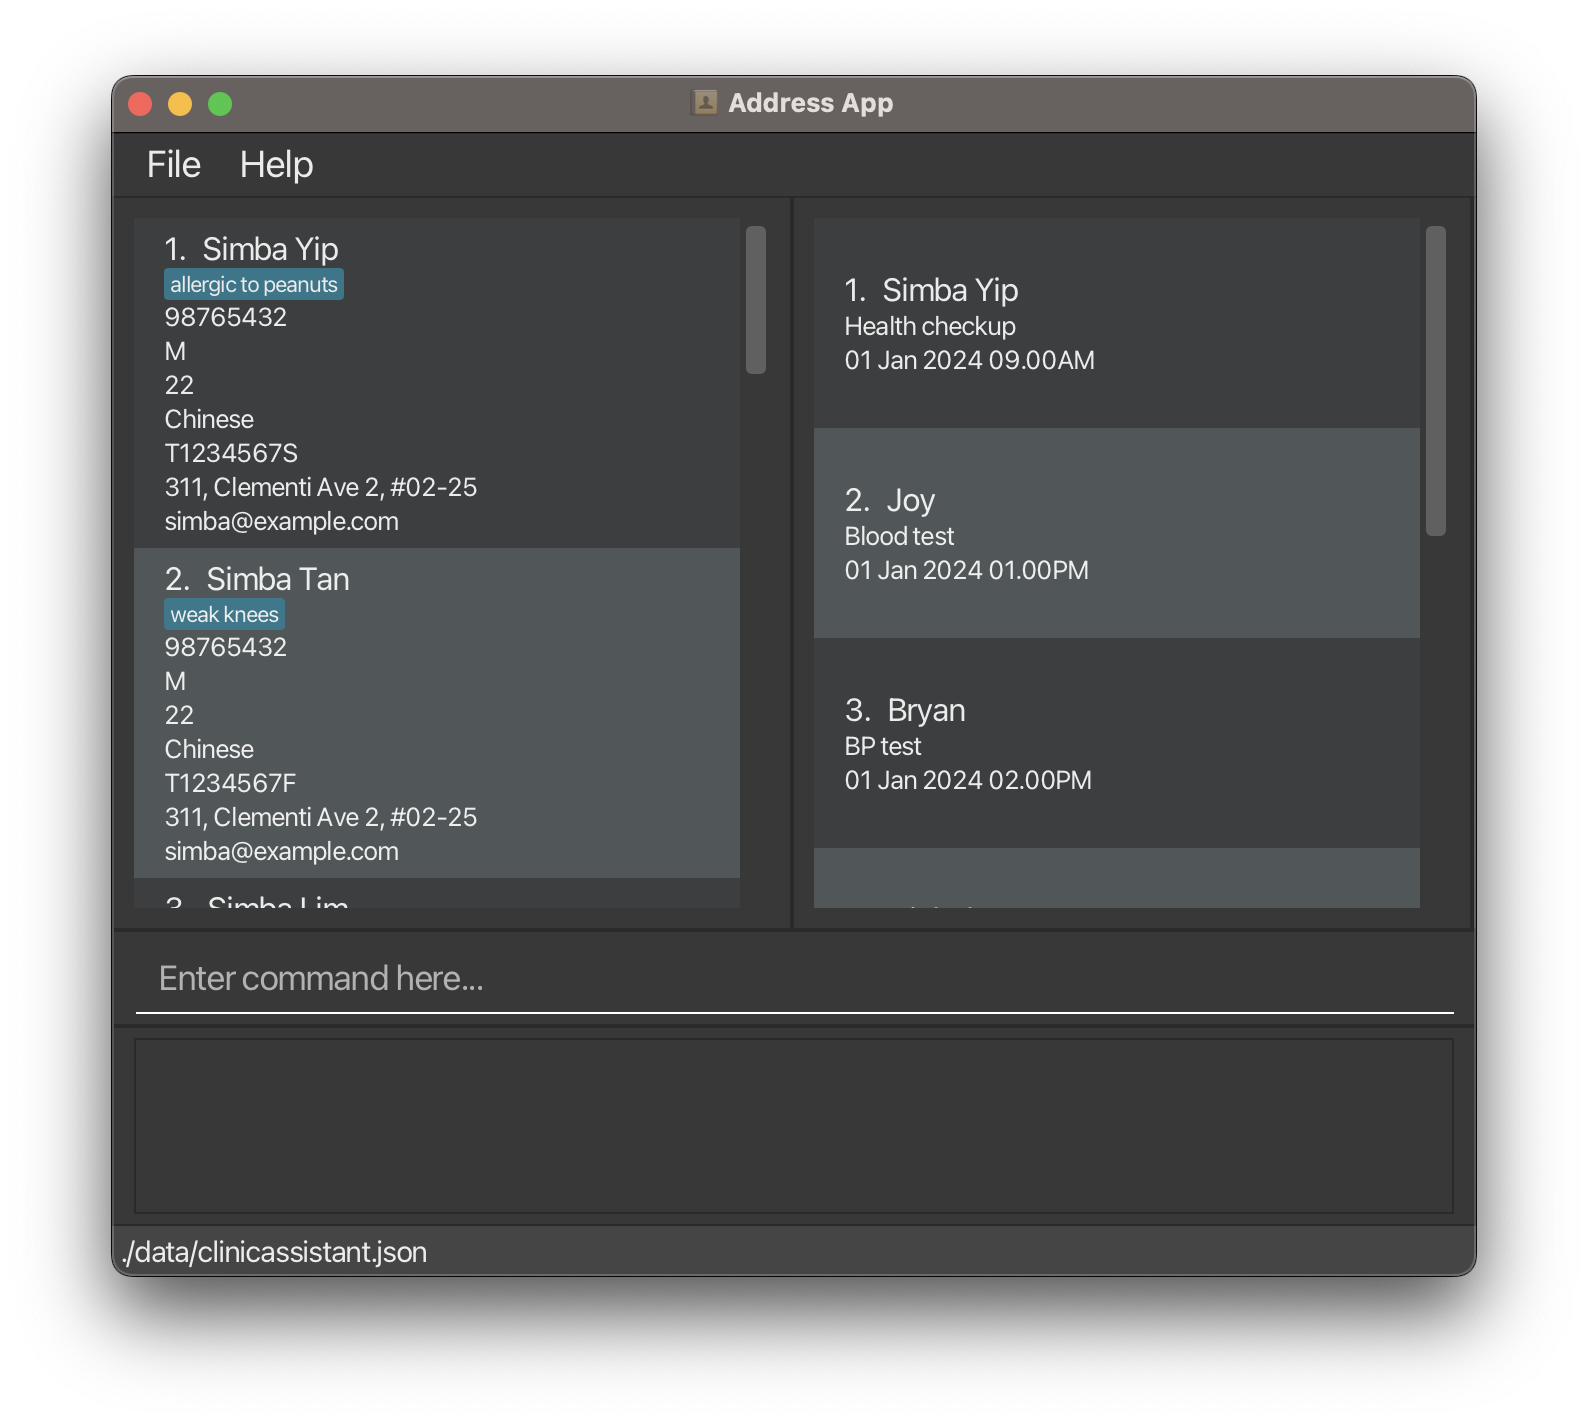
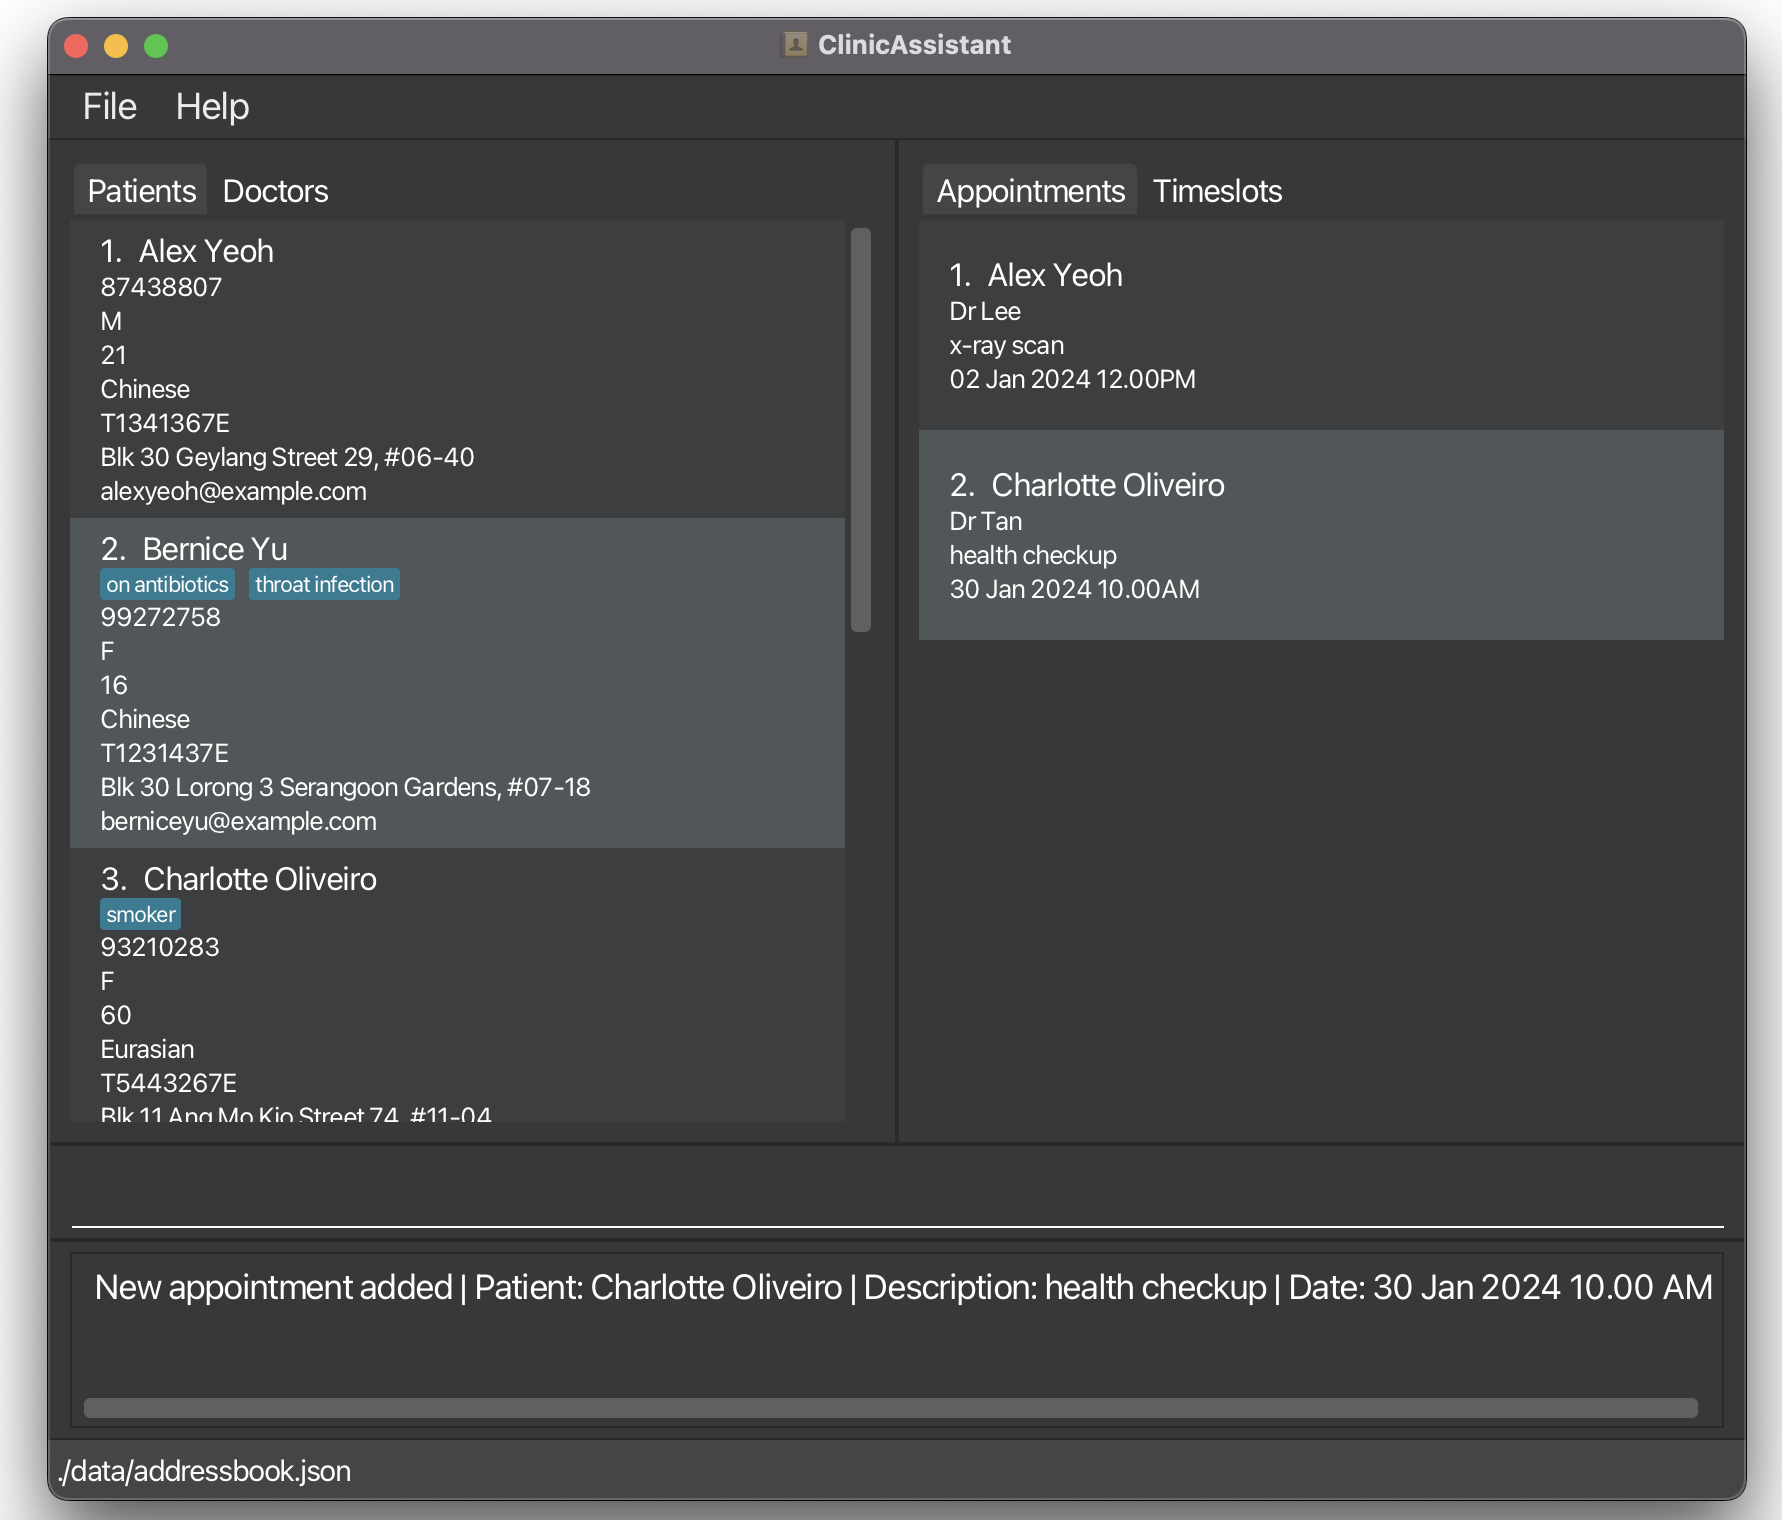
update GUI to latest for UG

diff --git a/docs/UserGuide.md b/docs/UserGuide.md
@@ -106,8 +106,8 @@ Appointment
 
 1. Copy the file to the folder you want to use as the _home folder_ for your ClinicAssistant.
 
-1. Open a command terminal, `cd` into the folder you put the jar file in, and use the `java -jar clinicassistant.jar` command to run the application.<br>
-   A GUI similar to the below should appear in a few seconds. Note how the app contains some sample data.<br>
+1. Open a command terminal, `cd` into the folder you put the jar file in, and use the `java -jar clinicassistant.jar` command to run the application.
+   A GUI similar to the below should appear in a few seconds. <br>
    ![Ui](images/Ui.png)
 
 1. Type the command in the command box and press Enter to execute it. e.g. typing **`help`** and pressing Enter will open the help window.<br>
